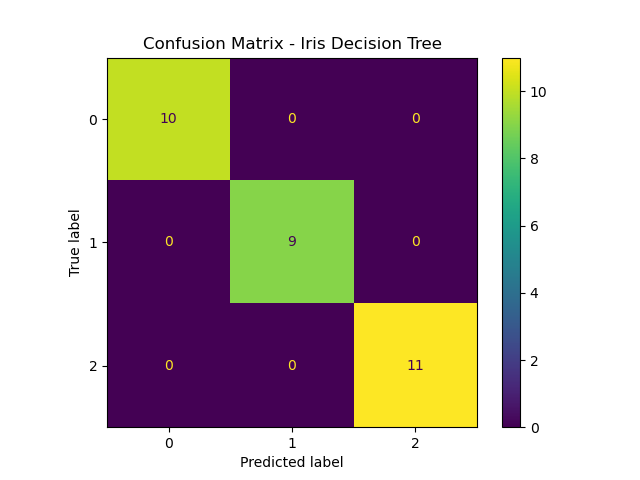
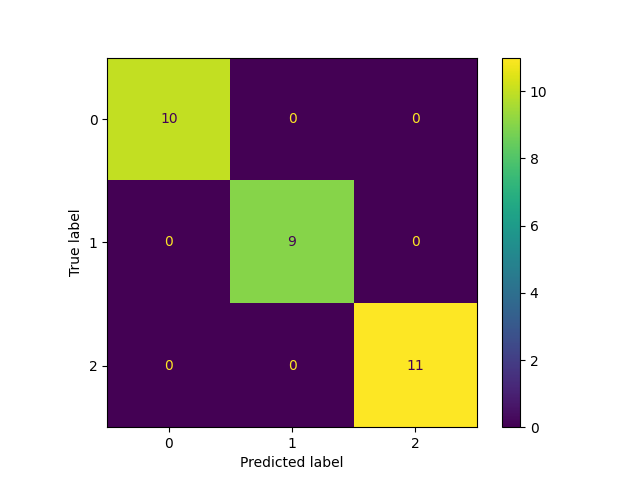
Final working classifier with output

diff --git a/src/train.py b/src/train.py
@@ -42,3 +42,17 @@ disp.plot()
 from sklearn.metrics import (classification_report, accuracy_score, confusion_matrix)
 print(classification_report(y_test, y_pred))
 
+
+import os
+import joblib
+import matplotlib.pyplot as plt
+
+# create outputs folder
+os.makedirs("outputs", exist_ok=True)
+
+# save confusion matrix
+plt.savefig("outputs/confusion_matrix.png")
+plt.close()
+
+# save model
+joblib.dump(model, "outputs/model.joblib")
